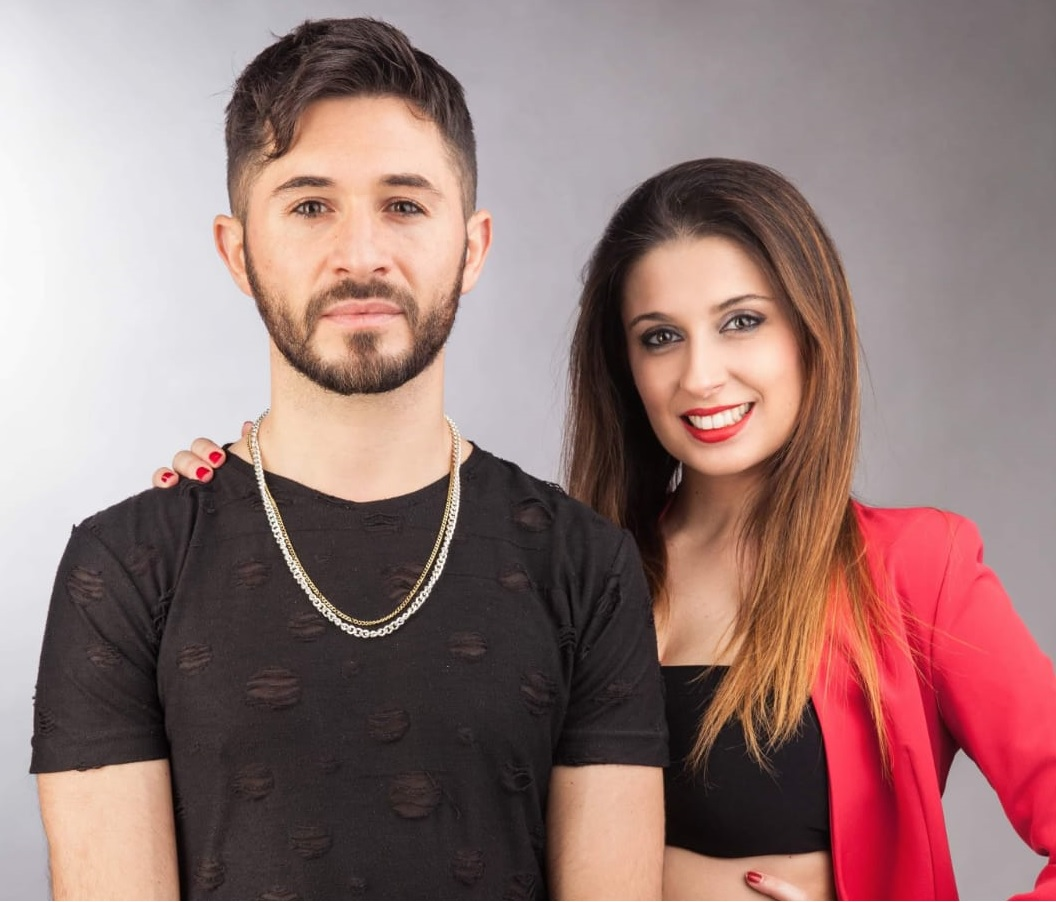
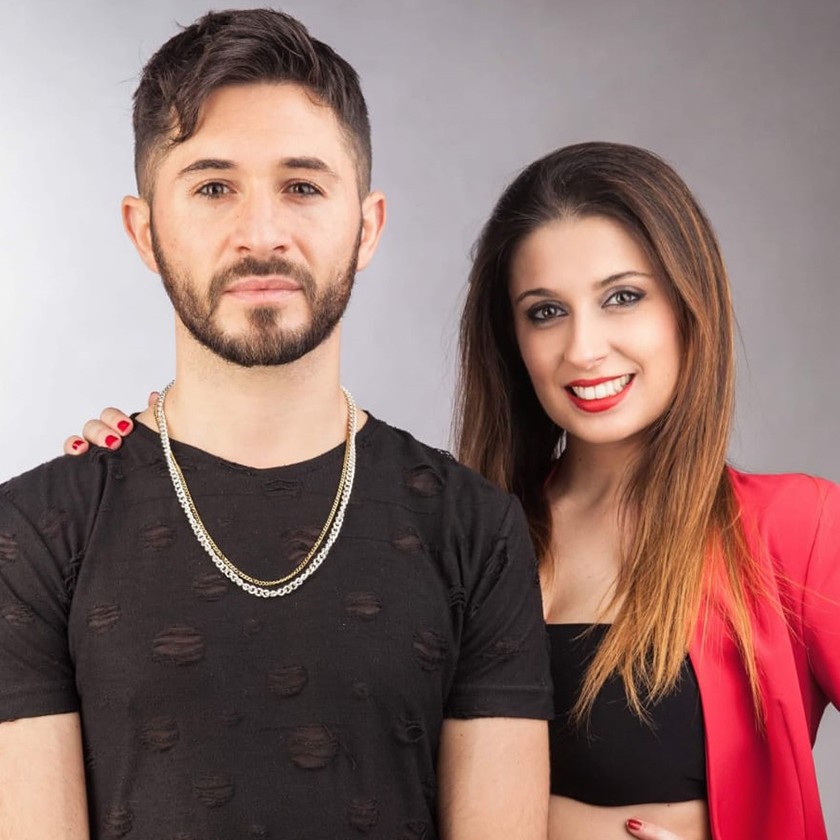
aggiunta immagini insegnanti

diff --git a/project/resources/views/home.blade.php b/project/resources/views/home.blade.php
@@ -585,7 +585,7 @@
     <!-- ZOTO -->
     <div class="card-staff">
       <div class="foto-insegnante">
-        <img src="{{ asset('img/susanna_staff.jpg')}}" alt="" class="foto-staff">
+        <img src="{{ asset('img/zoto_staff.jpg')}}" alt="" class="foto-staff">
         <h2 class="nome-insegnante" style="color: rgb(141, 255, 186);font-size: 25px;">ZOTO</h2>
       </div>
       <div class="retro-stile" style="background-color: rgb(141, 255, 186)">
@@ -597,7 +597,7 @@
     <!-- CONTENITORE LATERALE -->
     <div class="staff-side-content" data-staff = 'zoto'>
       <img class="fas fa-chevron-circle-left" src="{{ asset('img/arrow-right.png')}}" alt="">
-      <img class="side-content-image" src="{{ asset('img/susanna_staff.jpg')}}" alt="">
+      <img class="side-content-image" src="{{ asset('img/zoto_staff.jpg')}}" alt="">
       <h2 class="side-content-title">ZOTO</h2>
       <p class="side-content-description" >Lorem ipsum dolor sit amet, consectetur adipisicing elit, sed do eiusmod tempor incididunt ut labore et dolore magna aliqua. Ut enim ad minim veniam, quis nostrud exercitation ullamco laboris nisi ut aliquip ex ea commodo consequat. Duis aute irure dolor in reprehenderit in voluptate velit esse cillum dolore eu fugiat nulla pariatur. Excepteur sint occaecat cupidatat non proident, sunt in culpa qui officia deserunt mollit anim id est laborum.</p>
     </div>
